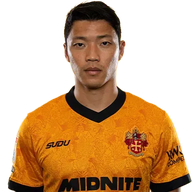
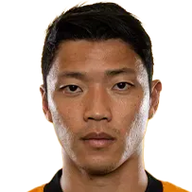
헤드샷 4명 배경 제거 + 선수 상세에 '관련 뉴스' 섹션
- 이강인·황인범·이한범: 어두운 스튜디오 배경이라 색 기반 제거가 불가 →
  macOS Vision 피사체 분리(VNGenerateForegroundInstanceMask)로 컷아웃 후
  공통 비율(머리폭 x1.75)로 재크롭. 황희찬은 풀프레임이던 것을 같은
  비율로 재크롭. 이제 25명 전원 투명 배경 + 동일 프레이밍.
- 선수 상세(요약 탭) 최하단에 PlayerNews 추가 — 선수 이름으로
  네이버 뉴스 검색, 제목에 이름이 포함된 최근 5건. 기사 탭 시 원문,
  뉴스가 없으면 섹션 자체를 숨김.

diff --git a/index.html b/index.html
@@ -4188,6 +4188,7 @@ function PlayerScreen({ player, onBack, onMatch, liveApiMatches = [], statsCache
               ))}
             </div>
           )}
+          <PlayerNews name={player.name}/>
         </div>
       )}
 
@@ -4937,6 +4938,58 @@ function timeAgo(dateStr) {
 
 function stripHtml(str) {
   return str ? str.replace(/<[^>]*>/g, '').replace(/&quot;/g,'"').replace(/&amp;/g,'&').replace(/&lt;/g,'<').replace(/&gt;/g,'>') : '';
+}
+
+// 선수 상세 최하단 '관련 뉴스' — 해당 선수 이름으로 네이버 뉴스를 검색해 최근 5건.
+function PlayerNews({ name }) {
+  const [items, setItems] = React.useState(null); // null=로딩 중
+  React.useEffect(() => {
+    let cancelled = false;
+    setItems(null);
+    fetch(`${API_BASE}/api/naver-news?query=${encodeURIComponent(name)}`)
+      .then(r => r.json())
+      .then(d => {
+        if (cancelled) return;
+        const list = (d.items || [])
+          .map(item => ({
+            title: stripHtml(item.title),
+            link: item.originallink || item.link,
+            pubDate: item.pubDate,
+            source: (() => {
+              try { return new URL(item.originallink || item.link).hostname.replace('www.', '').replace('m.', ''); }
+              catch { return ''; }
+            })(),
+          }))
+          .filter(a => a.title.includes(name))
+          .slice(0, 5);
+        setItems(list);
+      })
+      .catch(() => { if (!cancelled) setItems([]); });
+    return () => { cancelled = true; };
+  }, [name]);
+
+  if (items && items.length === 0) return null;   // 뉴스 없으면 섹션 자체를 숨김
+  return (
+    <div style={{ background:'var(--surface)', borderRadius:16, padding:'16px', border:'0.5px solid var(--border)', marginBottom:12 }}>
+      <div style={{ fontSize:13, fontWeight:700, color:'var(--text)', marginBottom:4 }}>관련 뉴스</div>
+      {items === null ? (
+        <div style={{ display:'flex', justifyContent:'center', padding:'20px 0' }}>
+          <div style={{ width:20, height:20, borderRadius:'50%', border:'2.5px solid var(--border)', borderTopColor:'var(--acc)', animation:'spin 0.8s linear infinite' }}/>
+        </div>
+      ) : items.map((a, i) => (
+        <div key={i} onClick={() => window.open(a.link, '_blank')}
+          style={{ padding:'11px 0', borderBottom: i < items.length - 1 ? '0.5px solid var(--border2)' : 'none', cursor:'pointer' }}>
+          <div style={{ fontSize:13, fontWeight:600, color:'var(--text)', lineHeight:1.45,
+            display:'-webkit-box', WebkitLineClamp:2, WebkitBoxOrient:'vertical', overflow:'hidden' }}>{a.title}</div>
+          <div style={{ display:'flex', gap:6, marginTop:5 }}>
+            <span style={{ fontSize:11, color:'var(--text4)' }}>{a.source.split('.')[0]}</span>
+            <span style={{ fontSize:11, color:'var(--text5)' }}>·</span>
+            <span style={{ fontSize:11, color:'var(--text4)' }}>{timeAgo(a.pubDate)}</span>
+          </div>
+        </div>
+      ))}
+    </div>
+  );
 }
 
 // 새로고침할 때마다 다른 조합을 보여준다.
